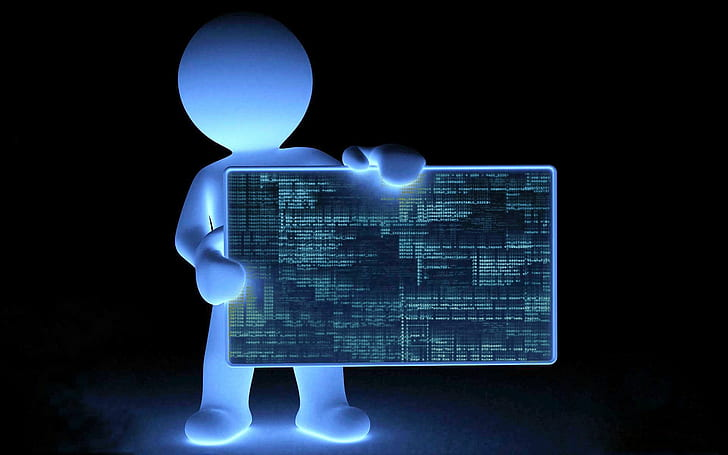
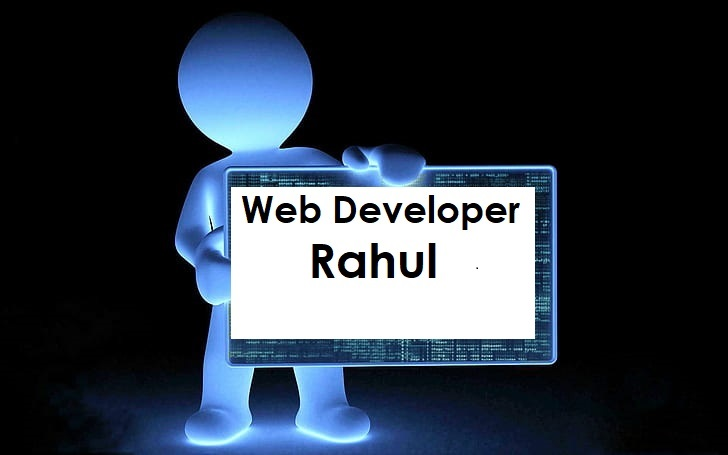
header, blog and project changeas

Changed region(s): [[0.3022, 0.3385, 0.7555, 0.8], [0.6951, 0.3385, 0.7555, 0.3692]]

diff --git a/index.html b/index.html
@@ -64,7 +64,7 @@
 	<!-- end preloader -->
 
 	<!-- start header -->
-	<header>
+	<!-- <header>
 		<div class="container">
 			<div class="row">
 				<div class="col-md-3 col-sm-4 col-xs-12">
@@ -84,7 +84,7 @@
 				</div>
 			</div>
 		</div>
-	</header>
+	</header> -->
 	<!-- end header -->
 
 	<!-- start navigation -->
@@ -141,7 +141,7 @@
 		<div class="container">
 			<div class="row">
 				<div class="col-md-12">
-					<h2 class="wow bounceIn" data-wow-offset="50" data-wow-delay="0.3s">HEAR SOMETHING ABOUT ME</h2>
+					<h2 class="wow bounceIn" data-wow-offset="50" data-wow-delay="0.3s">HEAR SOMETHING ABOUT</h2>
 				</div>
 				<div class="col-md-12 myImage-holder mb-3">
 					<img class="img-responsive" alt="/" src="images/programmer-wallpaper-preview.jpg">
@@ -154,9 +154,10 @@
 							</div>
 
 						</div>
-						<div class="media-body">
-							<h2 class="media-heading text-center mb-3">About Rahul Mohonta</h2>
-							<p class="text-justify">I am a Front-end Developer with half years of footprints in
+						<div class="card media-body">
+							<h2 class="card-title media-heading text-center mb-3">About Rahul Mohonta</h2>
+							<p class="card-body text-justify">I am a Front-end Developer with half years of footprints
+								in
 								developing section,
 								and taken 4 months course of Full Stack Web-Development Course from Programming Hero
 								Community. I create successful websites that are fast, easy to use, and built with best
@@ -252,7 +253,8 @@
 					<div class="team-wrapper">
 						<img src="./images/foodMart.jpg" class="img-responsive" alt="team img 1">
 						<div class="team-des">
-							<p>Website is about online food and grocery item ordering sytem. Developmet is done with
+							<p class="text-justify">Website is about online food and grocery item ordering sytem.
+								Developmet is done with
 								React, Javscript, NodeJS and design is done solely by me. Check out more via the below
 								buttons.</p>
 
@@ -276,7 +278,8 @@
 						<div class="team-des">
 
 
-							<p>Bus company service website offers to show services of respective comapny and place
+							<p class="text-justify">Bus company service website offers to show services of respective
+								comapny and place
 								services on specific date, access to users is limited based on email filter they will
 								log in. CHeckout more in live site.</p>
 						</div>
@@ -298,7 +301,8 @@
 					<div class="team-wrapper">
 						<img src="./images/english league.jpg" class="img-responsive" alt="team img 3">
 						<div class="team-des">
-							<p>English Premier League desciption. Api is taken from sportsdb. For a specific team ,team
+							<p class="text-justify">English Premier League desciption. Api is taken from sportsdb. For a
+								specific team ,team
 								details varies. Developed with JavaScript and React.</p>
 						</div>
 						<div class="project-buttons">
@@ -317,7 +321,8 @@
 					<div class="team-wrapper">
 						<img src="./images/plane.jpg" class="img-responsive" alt="team img 4">
 						<div class="team-des">
-							<p>Functionality developed with pure JavaScript and design related issues is solved with
+							<p class="text-justify">Functionality developed with pure JavaScript and design related
+								issues is solved with
 								illustrator image, online image editor, HTML and CSS. Site Shows how a plane ticket
 								booking system can be via online.</p>
 						</div>
@@ -339,9 +344,33 @@
 					<div class="team-wrapper">
 						<img src="./images/tour.jpg" class="img-responsive" alt="team img 4">
 						<div class="team-des">
-							<p>Smart Tour website is about selecting various kinds of travelling system. Google Map api
+							<p class="text-justify">Smart Tour website is about selecting various kinds of travelling
+								system. Google Map api
 								is used and destination for specific place shows routes on website map. Developed with
 								React JS, JavaScript, HTML, and CSS etc</p>
+						</div>
+						<div class="project-buttons">
+							<a target="_blank"
+								href="https://drive.google.com/file/d/1DQAZk8J7L4upDo4oeQOlQYDNCCV5rF62/view?usp=sharing"
+								class="btn btn-default wow fadeInUp" data-wow-offset="50"
+								data-wow-delay="0.6s">Live-Site
+							</a>
+							<a data-scroll target="_blank" href="https://github.com/rahulmohonto/Smart-Tour-Option"
+								class="btn btn-default wow fadeInUp" data-wow-offset="50" data-wow-delay="0.6s">Git
+								Repo</a>
+						</div>
+					</div>
+				</div>
+				<div class="col-md-4 col-sm-6 col-xs-12 wow fadeIn" data-wow-offset="50" data-wow-delay="1.6s">
+					<h3>ApplianceBD</h3>
+					<div class="team-wrapper">
+						<img src="./images/mediumGenerator.jpg" class="img-responsive" alt="project image 6">
+						<div class="team-des">
+							<p class="text-justify">ApplianceBD is native mobile app. It is designed and developed with
+								react-native, expo
+								CLI. App is inspired from various online ecommerce mobile app offering oline product
+								ordering system and delivery ssytem. Map is integrated so user can put location tag/info
+							</p>
 						</div>
 						<div class="project-buttons">
 							<a target="_blank"
@@ -378,7 +407,7 @@
 							<h3 class="card-title text-center">Know About JavaScript ES6</h3>
 							<p class="card-text text-justify">Whenever we declare a variable we usually bind a value to
 								a name under
-								a scope that is a part of the program. Sometimes the binding becomes global</p>
+								a scope that is a part of the program. Sometimes the binding becomes global ...</p>
 							<a target="_blank"
 								href="https://medium.com/javascript-block-binding-and-cross-browser-testing/know-about-es6-and-function-80b22188795b"
 								class="btn btn-primary">See Details</a>
@@ -395,7 +424,27 @@
 							<h3 card-title text-center>10 Things In JavaScript </h3>
 							<p class=" card-text text-justify">
 								charAt is a method to access string at a specific index position. it reveals the
-								character at that position of the string.it is written as chaAt(index of that string).
+								character at that position of the string.it is written as chaAt(index of that string)
+								...
+							</p>
+							<a target="_blank"
+								href="https://rahulmohonto1999.medium.com/10-things-in-javascript-ee1689641716"
+								class="btn btn-primary">See Details</a>
+						</div>
+					</div>
+				</div>
+				<div class="col-md-4 wow fadeIn" data-wow-offset="50" data-wow-delay="0.9s">
+
+					<div class="card" style="width: 20rem;height:36rem">
+						<img src="images/const.png" class="card-img-top" alt="/" />
+						<div class="card-body card-main-body text-center">
+							<h3 card-title text-center>React, A True Wonder </h3>
+							<p class=" card-text text-justify">
+								React is a open source front-end javascript framework that is used to develope UI and
+								render in all browsers.The component based coding, reusable ...
+								<!-- render in all browsers. The component based coding, reusable pieces and data loading is
+								what made react one of the most popular framework to develope and design user
+								Interfaces. -->
 							</p>
 							<a target="_blank"
 								href="https://rahulmohonto1999.medium.com/10-things-in-javascript-ee1689641716"

diff --git a/css/templatemo-style.css b/css/templatemo-style.css
@@ -5,10 +5,11 @@ http://www.templatemo.com/preview/templatemo_450_awesome
 
 body
 	{
- 		background: #303030;
+ 		/* background: #303030; */
  		color: #ffffff;
 		font-family: 'Open Sans', sans-serif;
-		font-weight: 300;
+		font-weight: 450;
+		font-family: 'Century Gothic';
 		overflow-x: hidden; /* prevent horizontal scrollbar from appearing */
 	}
 	
@@ -109,8 +110,8 @@ h2 span
 
 @-webkit-keyframes sk-waveStretchDelay {
   0%, 40%, 100% {
-            -webkit-transform: scaleY(0.4);
-                    transform: scaleY(0.4); }
+            -webkit-transform: scaleY(0.7);
+                    transform: scaleY(0.7); }
 
   20% {
             -webkit-transform: scaleY(1);
@@ -204,7 +205,9 @@ header .social-icon li a
 /* start home */
 #home
 	{
-		background: url('../images/home-bg.jpg') no-repeat;
+		/* background: url('../images/home-bg.jpg') no-repeat; */
+		background-image: url(../images/wp6784383.jpg);
+			background: #303030;
 		background-size: cover;
 		padding-top: 160px;
 		padding-bottom: 100px;
@@ -248,9 +251,10 @@ header .social-icon li a
 
 /* start about */
 #about{
-	background-image: url(../images/wp6784383.jpg);
-	opacity: .8;
-	color:rgb(255, 255, 255);
+	/* background-image: url(../images/wp6784383.jpg); */
+	background-color: #202020;
+ opacity: .8;
+	color:rgb(255, 250, 250); 
 	
 }
 #about .media-heading-wrapper
@@ -309,12 +313,15 @@ header .social-icon li a
 /* end about */
 
 /* start team */
+#projects{
+	background-color:#202020;
+}
 #projects .team-wrapper
 	{
 		background: #404040;
 		padding-bottom: 10px;
-		-webkit-transition: all 0.4s ease-in-out;
-		        transition: all 0.4s ease-in-out;
+		/* -webkit-transition: all 0.4s ease-in-out;
+		        transition: all 0.4s ease-in-out; */
 		position: relative;
 		box-sizing: border-box;
 		/* transition: all .85s cubic-bezier(.25,.98,.55,22); */
@@ -325,10 +332,10 @@ header .social-icon li a
 	}
 #projects .team-wrapper:hover
 	{
-		/* transition: all .85s cubic-bezier(.25,.98,.55,22); */
-		/* box-shadow: 0 1px 3px rgb(#FFFFFF #FFFFFF #FFFFFF / 42%), 0 1px 2px rgb(#FFFFFF #FFFFFF #FFFFFF / 44%); */
+		/* transition: all .85s cubic-bezier(.25,.98,.55,22);  */
+		box-shadow: 0 1px 3px rgb(#FFFFFF #FFFFFF #FFFFFF / 42%), 0 1px 2px rgb(#FFFFFF #FFFFFF #FFFFFF / 44%);
 		cursor: pointer;
-		opacity: 0.4;
+		/* opacity: 0.4; */
 		bottom: 4px;
 	}
 #projects .team-wrapper .team-des
@@ -350,6 +357,9 @@ header .social-icon li a
 /* end team */
 
 /* start service */
+#blogs{
+		background: #303030;
+}
 #blogs .col-md-4
 	{
 		padding: 40px;
